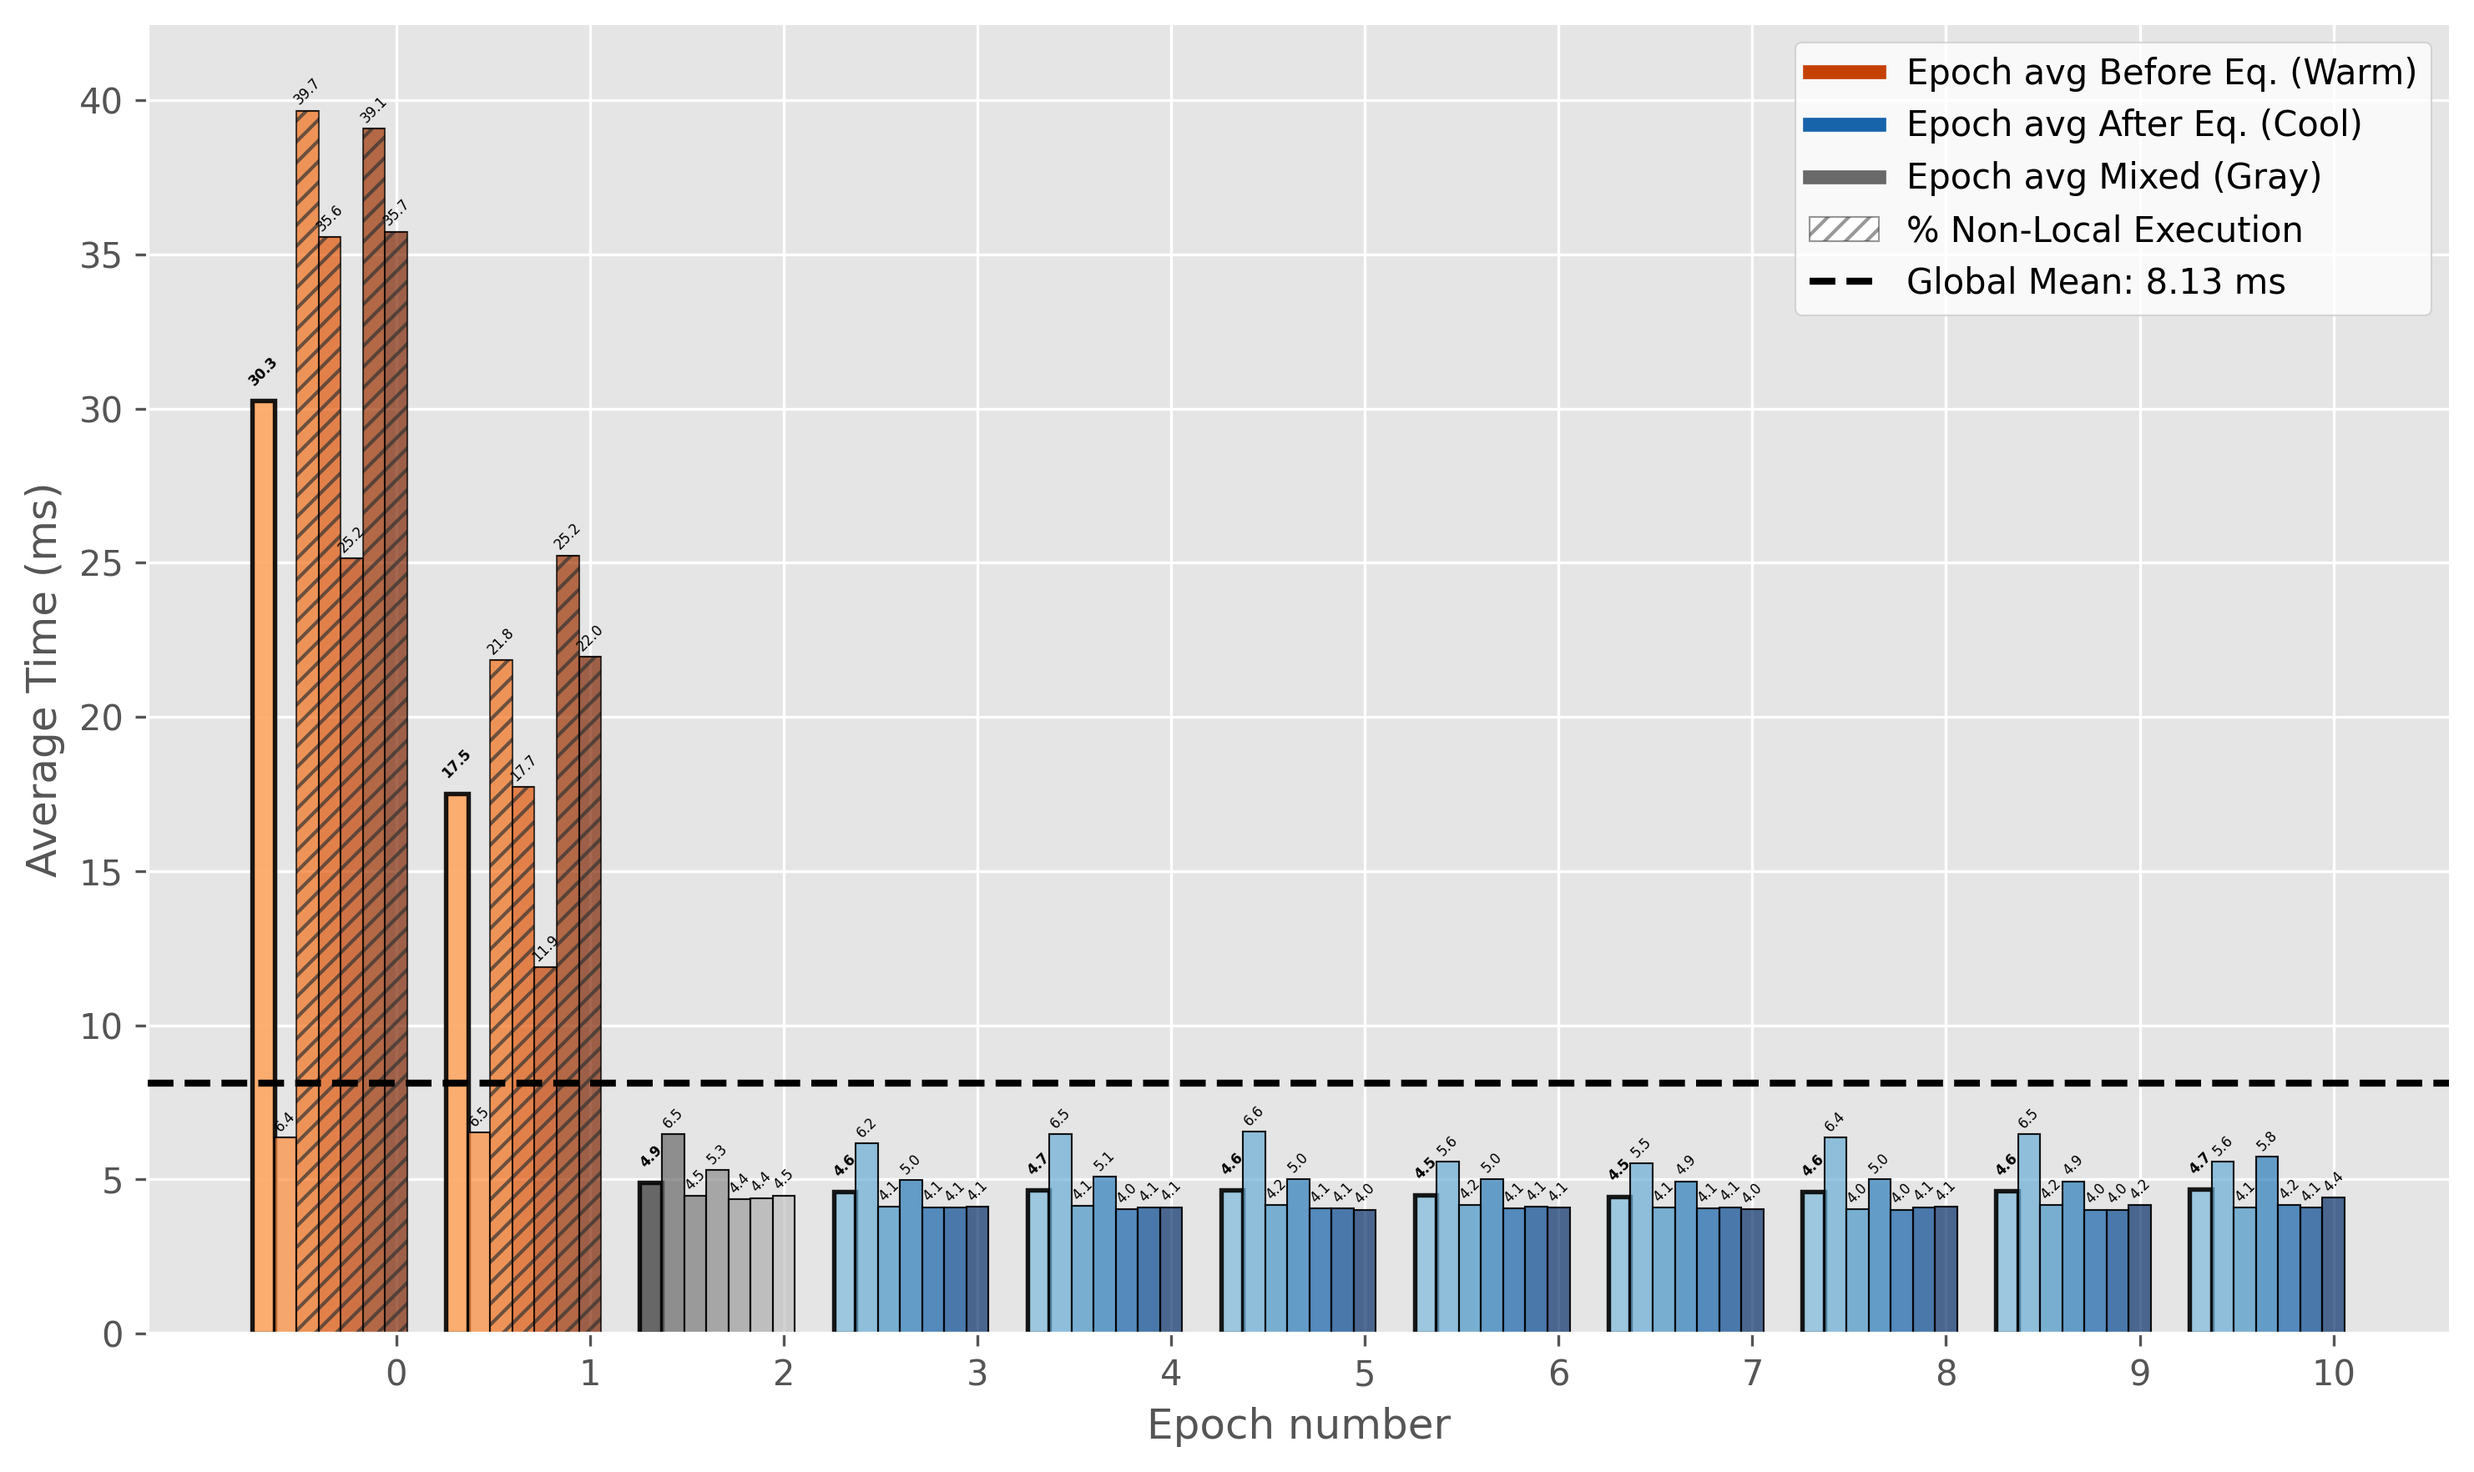
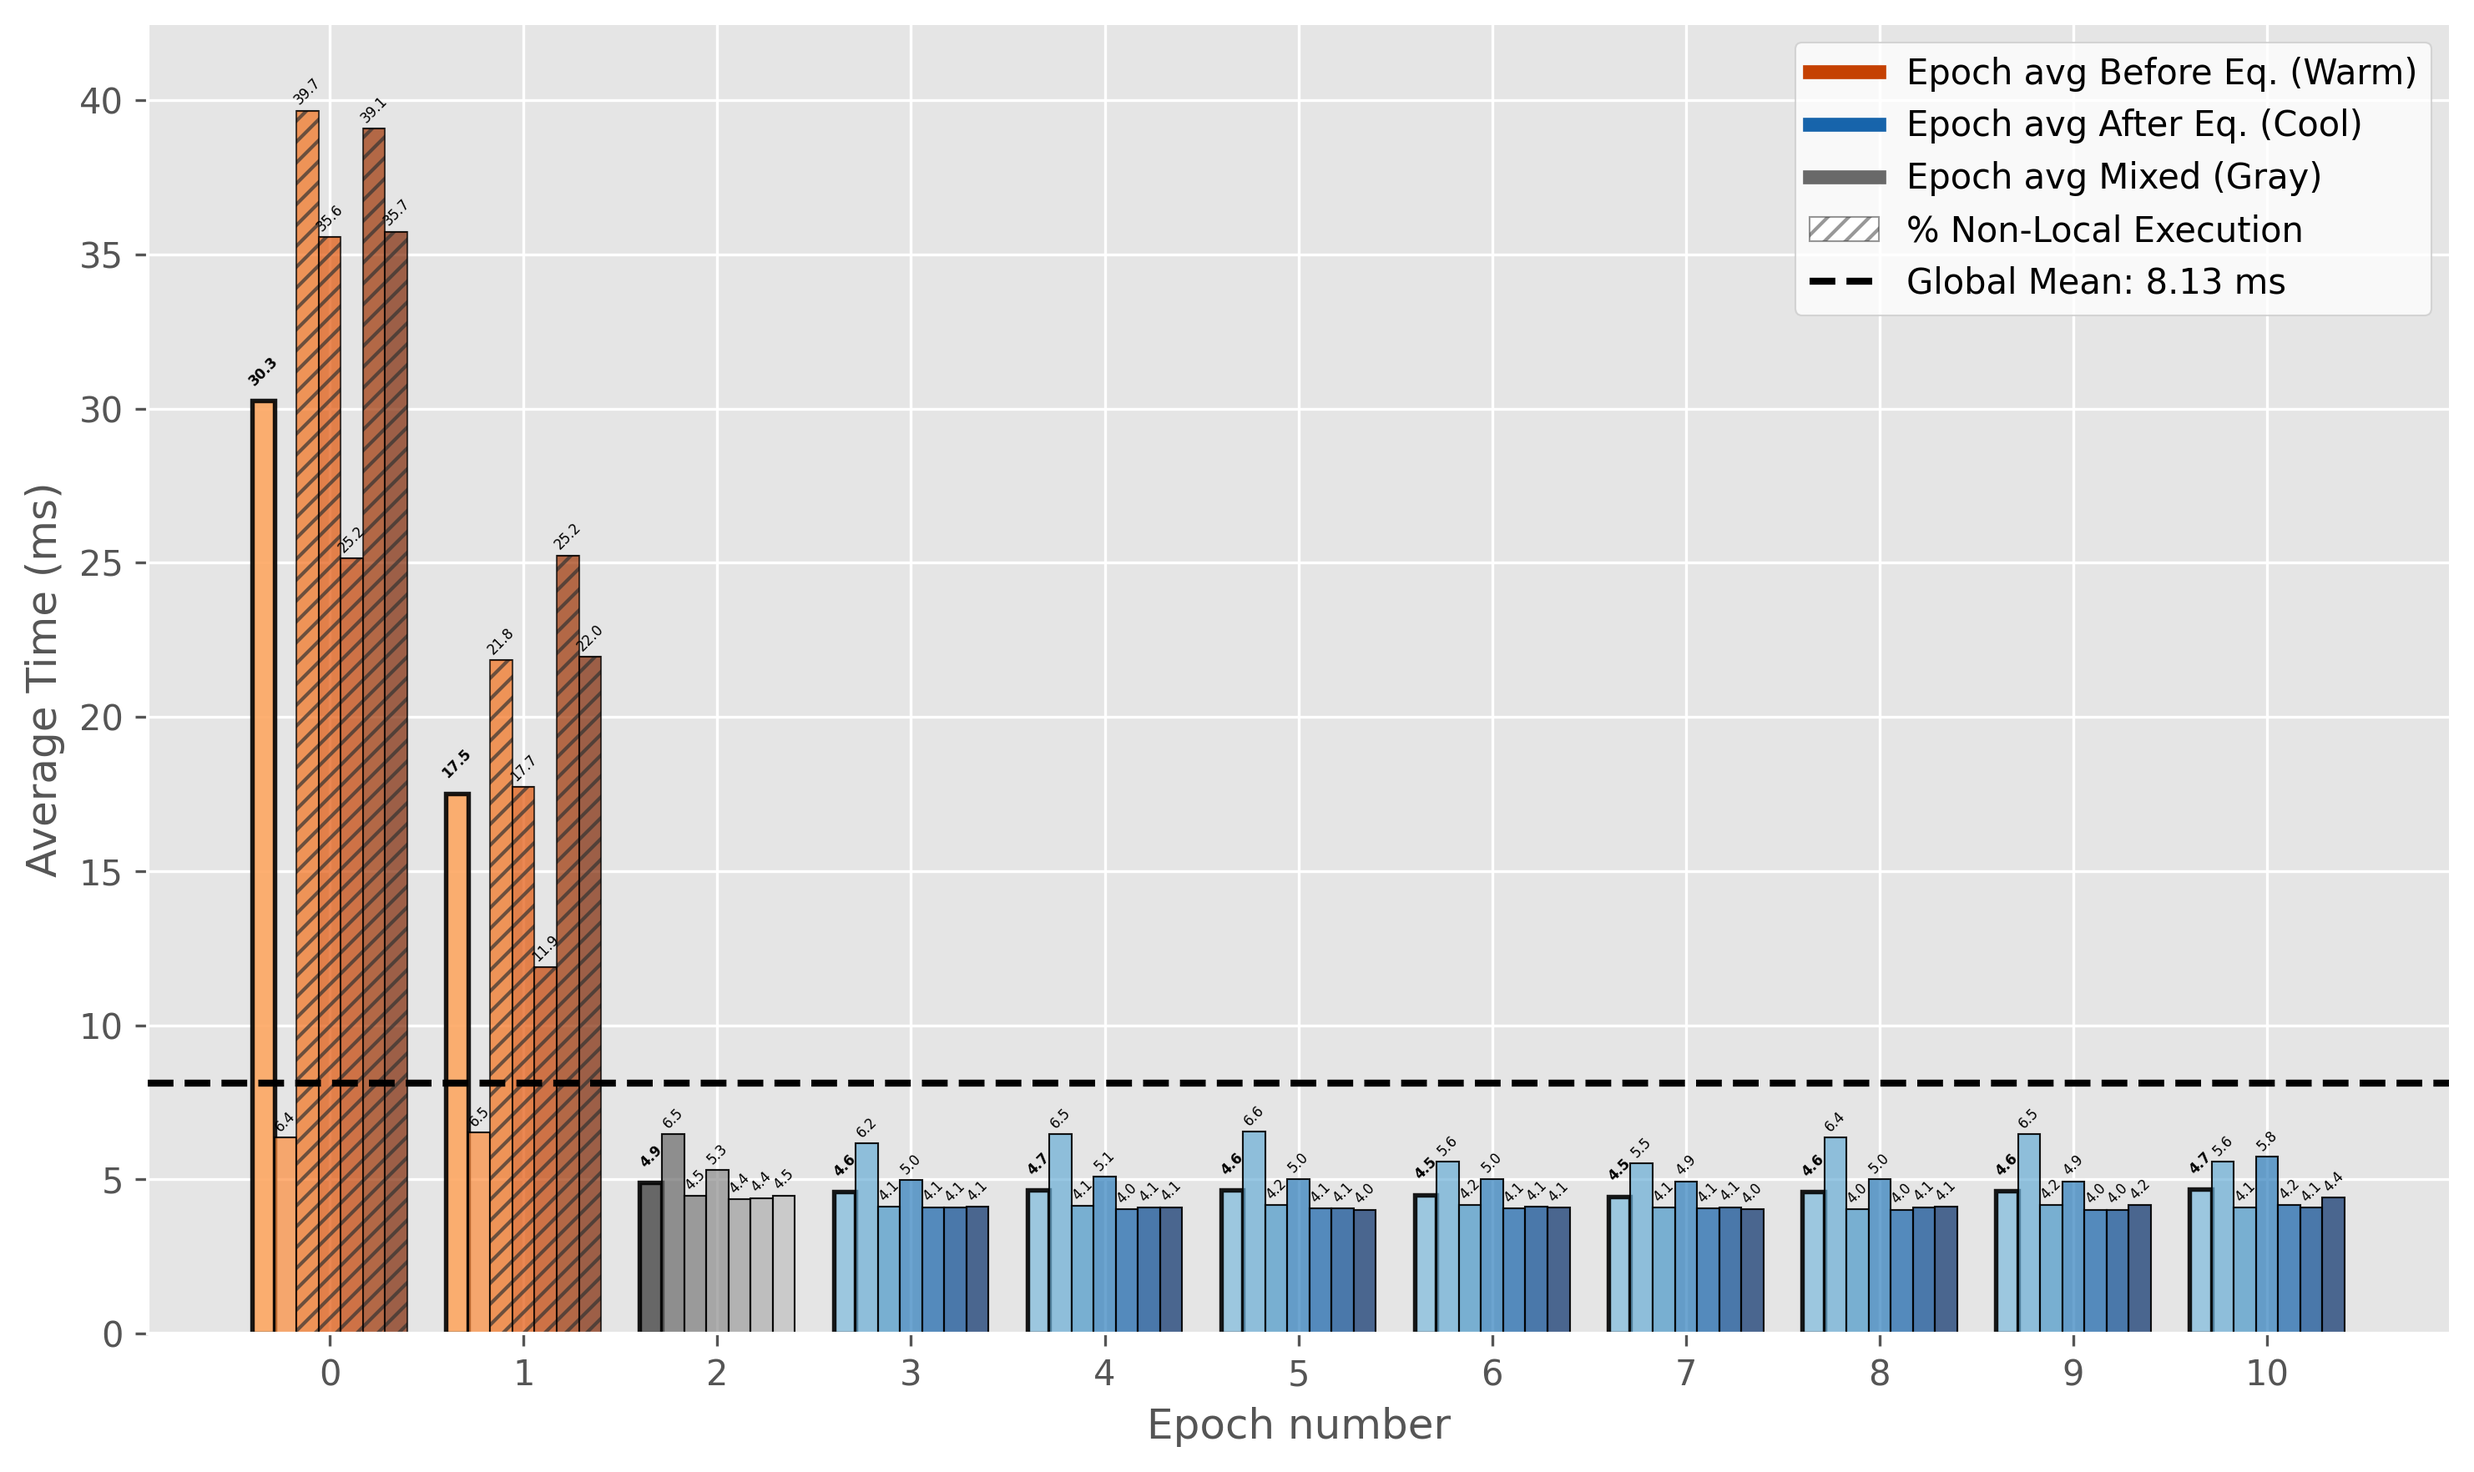
Move xticks in the middle of the epoch

Changed region(s): [[0.8381, 0.9042, 0.8691, 0.9354]]

diff --git a/ermes_benchmark/convergence_test/code/plots/latency.py b/ermes_benchmark/convergence_test/code/plots/latency.py
@@ -497,7 +497,7 @@ def plot_logs_avg_latency(dfs, scenario, show_if_remote=True):
         # ----------------------------
         ax.set_xlabel('Epoch number')
         ax.set_ylabel('Average Time (ms)')
-        ax.set_xticks(x + (bar_width * total_bars_in_group / 2) - (bar_width / 2))
+        ax.set_xticks(x)
         ax.set_xticklabels(all_groups, rotation=0)
 
         for spine in ['top', 'right']:
